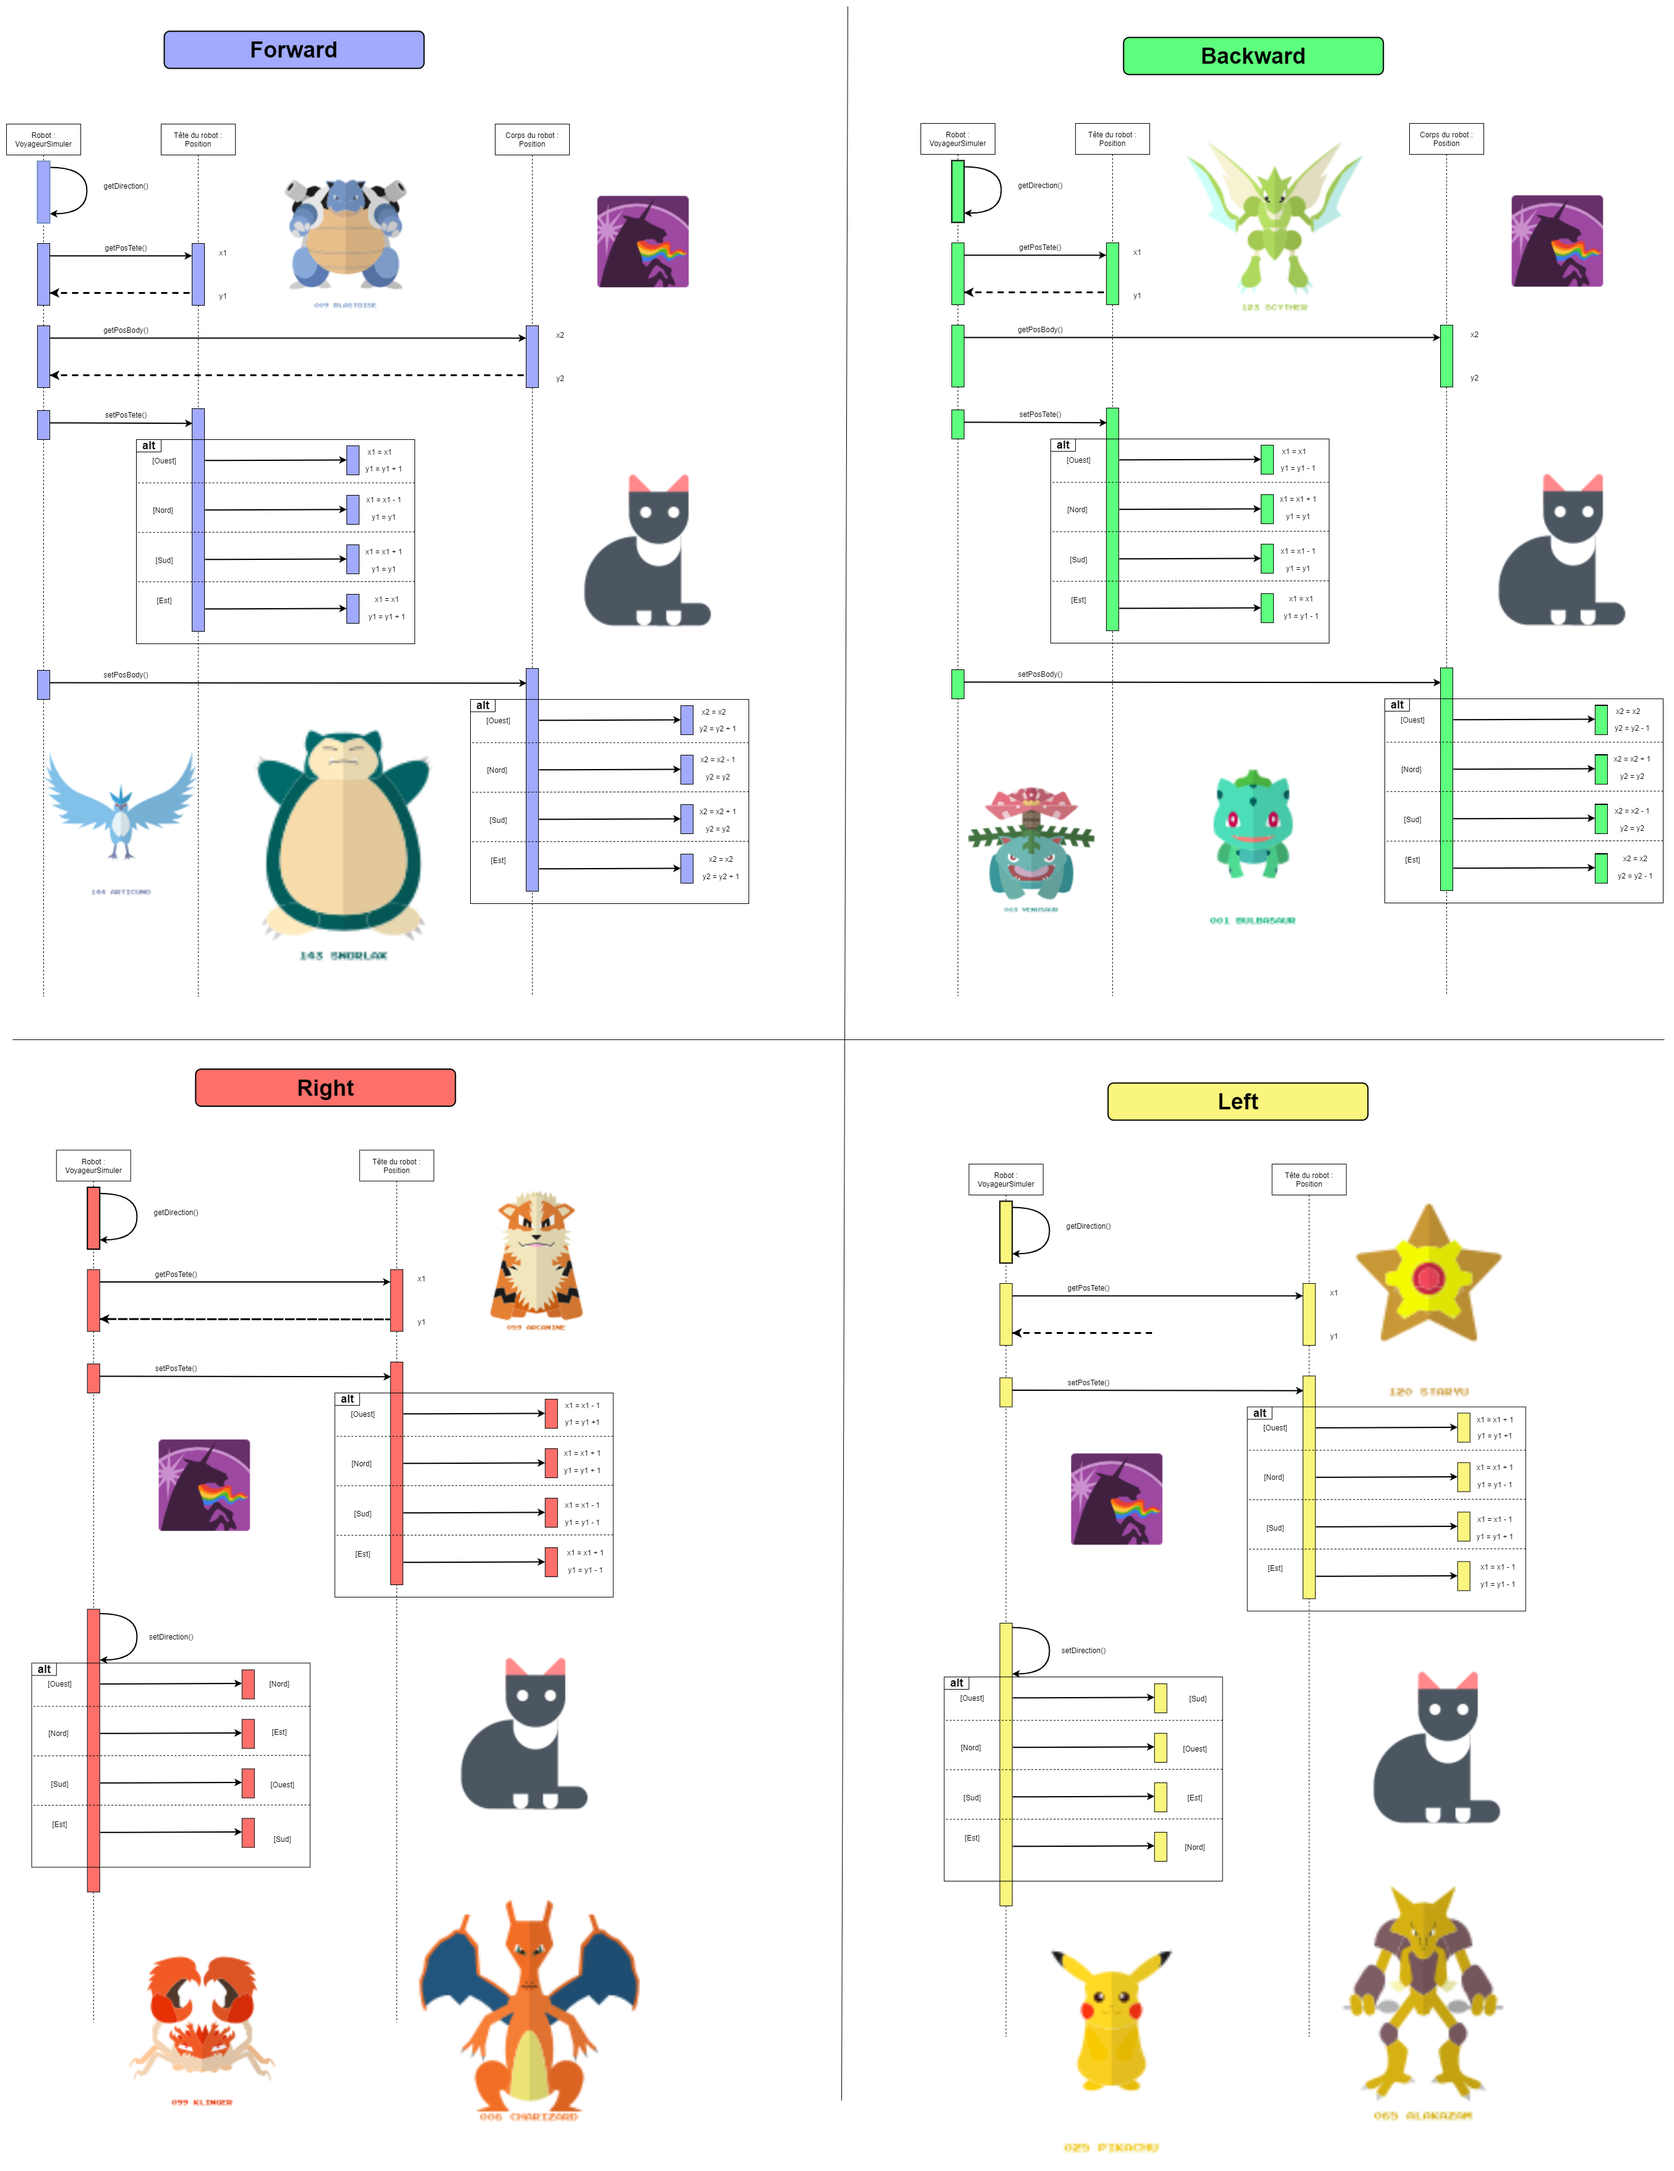
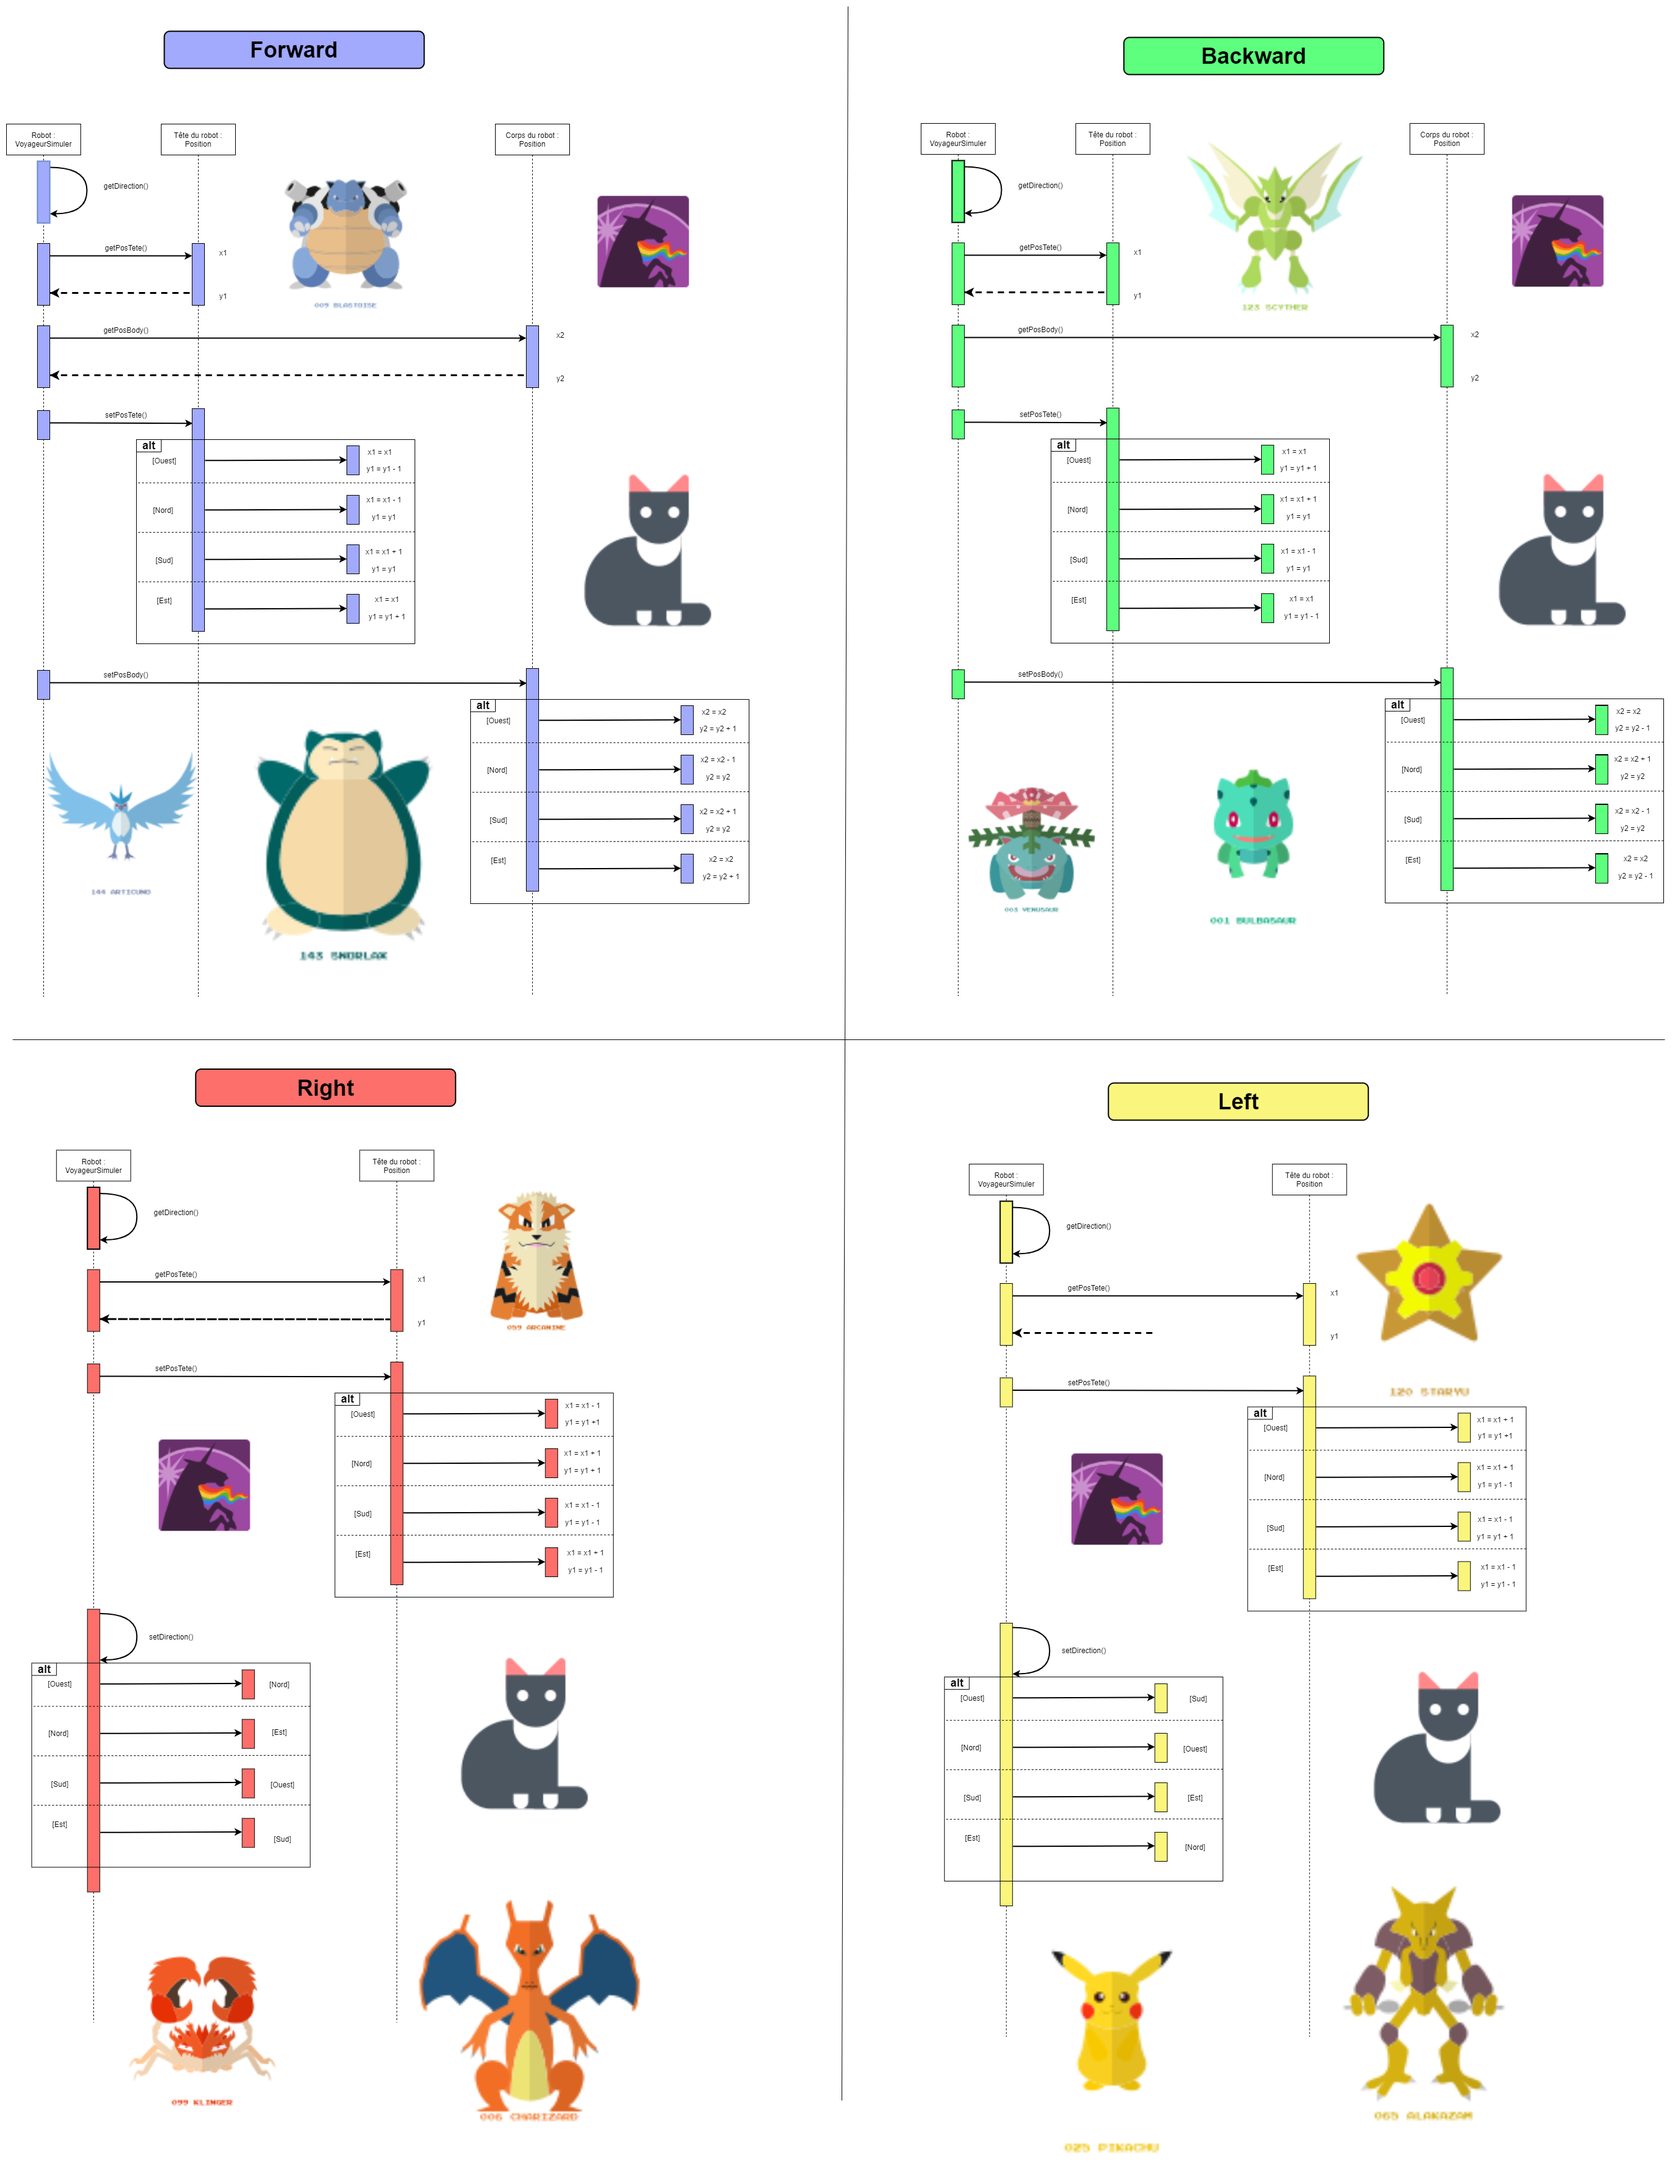
Définition des fonctions forward, backward,right,left

diff --git a/TPVoyageur/src/main/java/fr/emac/gipsi/gsi/voyageur/VoyageurSimuler.java b/TPVoyageur/src/main/java/fr/emac/gipsi/gsi/voyageur/VoyageurSimuler.java
@@ -3,6 +3,8 @@
  */
 package fr.emac.gipsi.gsi.voyageur;
 
+import fr.emac.gipsi.gsi.voyage.Position;
+
 /**
  * @author Truptil Sebastien - sebastien.truptil@gmail.com
  *
@@ -22,7 +24,45 @@ public class VoyageurSimuler extends AbstractVoyageur {
     @Override
     protected void forward() {
         // TODO Auto-generated method stub
-
+    	String directionactuelle = getDirection();
+    	Position positiontete = getPosTete();
+    	Position positionbody = getPosBody();
+    	
+    	int xt = positiontete.getX();
+    	int yt = positiontete.getY();
+    	
+    	int xb = positionbody.getX();
+    	int yb = positionbody.getY();
+    	
+    	Position bonnetete;
+    	Position bonbody;
+    	
+    	switch (directionactuelle) {
+    		case "N":
+    			bonnetete= new Position(xt - 1, yt);
+    			setPosTete(bonnetete);
+    			bonbody= new Position(xb - 1, yb);
+    			setPosBody(bonbody);
+    			break;
+    		case "E":
+    			bonnetete= new Position(xt,yt + 1);
+    			setPosTete(bonnetete);
+    			bonbody= new Position(xb,yb + 1);
+    			setPosBody(bonbody);
+    			break;
+    		case "O":
+    			bonnetete= new Position(xt,yt - 1);
+    			setPosTete(bonnetete);
+    			bonbody= new Position(xb,yb - 1);
+    			setPosBody(bonbody);
+    			break;
+    		case "S":
+    			bonnetete= new Position(xt + 1, yt);
+    			setPosTete(bonnetete);
+    			bonbody= new Position(xb + 1, yb);
+    			setPosBody(bonbody);
+    			break;
+    	}
     }
 
     /* (non-Javadoc)
@@ -31,7 +71,45 @@ public class VoyageurSimuler extends AbstractVoyageur {
     @Override
     protected void backward() {
         // TODO Auto-generated method stub
-
+    	String directionactuelle = getDirection();
+    	Position positiontete = getPosTete();
+    	Position positionbody = getPosBody();
+    	
+    	int xt = positiontete.getX();
+    	int yt = positiontete.getY();
+    	
+    	int xb = positionbody.getX();
+    	int yb = positionbody.getY();
+    	
+    	Position bonnetete;
+    	Position bonbody;
+    	
+    	switch (directionactuelle) {
+    		case "N":
+    			bonnetete= new Position(xt + 1, yt);
+    			setPosTete(bonnetete);
+    			bonbody= new Position(xb + 1, yb);
+    			setPosBody(bonbody);
+    			break;
+    		case "E":
+    			bonnetete= new Position(xt,yt - 1);
+    			setPosTete(bonnetete);
+    			bonbody= new Position(xb,yb - 1);
+    			setPosBody(bonbody);
+    			break;
+    		case "O":
+    			bonnetete= new Position(xt,yt + 1);
+    			setPosTete(bonnetete);
+    			bonbody= new Position(xb,yb + 1);
+    			setPosBody(bonbody);
+    			break;
+    		case "S":
+    			bonnetete= new Position(xt - 1, yt);
+    			setPosTete(bonnetete);
+    			bonbody= new Position(xb - 1, yb);
+    			setPosBody(bonbody);
+    			break;
+    	}
     }
 
     /* (non-Javadoc)
@@ -40,6 +118,36 @@ public class VoyageurSimuler extends AbstractVoyageur {
     @Override
     protected void left() {
         // TODO Auto-generated method stub
+    	String directionactuelle = getDirection();
+    	Position positiontete = getPosTete();
+    	
+    	int xt = positiontete.getX();
+    	int yt = positiontete.getY();
+    	
+    	Position bonnetete;
+    	    	
+    	switch (directionactuelle) {
+    		case "N":
+    			bonnetete= new Position(xt + 1, yt - 1);
+    			setPosTete(bonnetete);
+    			setDirection("O");
+    			break;
+    		case "E":
+    			bonnetete= new Position(xt - 1, yt - 1);
+    			setPosTete(bonnetete);
+    			setDirection("N");
+    			break;
+    		case "O":
+    			bonnetete= new Position(xt + 1, yt + 1);
+    			setPosTete(bonnetete);
+    			setDirection("S");
+    			break;
+    		case "S":
+    			bonnetete= new Position(xt - 1, yt + 1);
+    			setPosTete(bonnetete);
+    			setDirection("E");
+    			break;
+    	}
     }
 
     /* (non-Javadoc)
@@ -48,5 +156,35 @@ public class VoyageurSimuler extends AbstractVoyageur {
     @Override
     protected void right() {
         // TODO Auto-generated method stub
+    	String directionactuelle = getDirection();
+    	Position positiontete = getPosTete();
+    	
+    	int xt = positiontete.getX();
+    	int yt = positiontete.getY();
+    	
+    	Position bonnetete;
+    	
+    	switch (directionactuelle) {
+    		case "N":
+    			bonnetete= new Position(xt + 1, yt + 1);
+    			setPosTete(bonnetete);
+    			setDirection("E");
+    			break;
+    		case "E":
+    			bonnetete= new Position(xt + 1, yt - 1);
+    			setPosTete(bonnetete);
+    			setDirection("S");
+    			break;
+    		case "O":
+    			bonnetete= new Position(xt - 1, yt + 1);
+    			setPosTete(bonnetete);
+    			setDirection("N");
+    			break;
+    		case "S":
+    			bonnetete= new Position(xt - 1, yt - 1);
+    			setPosTete(bonnetete);
+    			setDirection("O");
+    			break;
+    	}
     }
 }

diff --git a/TPVoyageur/src/main/java/fr/emac/gipsi/gsi/voyage/Voyage.java b/TPVoyageur/src/main/java/fr/emac/gipsi/gsi/voyage/Voyage.java
@@ -65,6 +65,19 @@ public class Voyage extends AbstractVoyage {
     @Override
     public void lancementSimuler() {
         // TODO Auto-generated method stub
+    	afficheEcran();
+    	wait(700);
+        getSimulatedvoyageur().goForward();
         afficheEcran();
+    	wait(700);
+        getSimulatedvoyageur().goForward();
+        afficheEcran();
+    	wait(700);
+        getSimulatedvoyageur().turnRight();
+        afficheEcran();
+    	wait(700);
+        getSimulatedvoyageur().goForward();
+        afficheEcran();
+
     }
 }

diff --git a/VoyageurBaseTP/src/main/java/fr/emac/gipsi/gsi/voyageur/AbstractVoyageur.java b/VoyageurBaseTP/src/main/java/fr/emac/gipsi/gsi/voyageur/AbstractVoyageur.java
@@ -27,7 +27,7 @@ public abstract class AbstractVoyageur {
 
     protected int energy = 0;
 
-    protected String direction = "S";
+    protected String direction = "E";
 
     /**
      *
